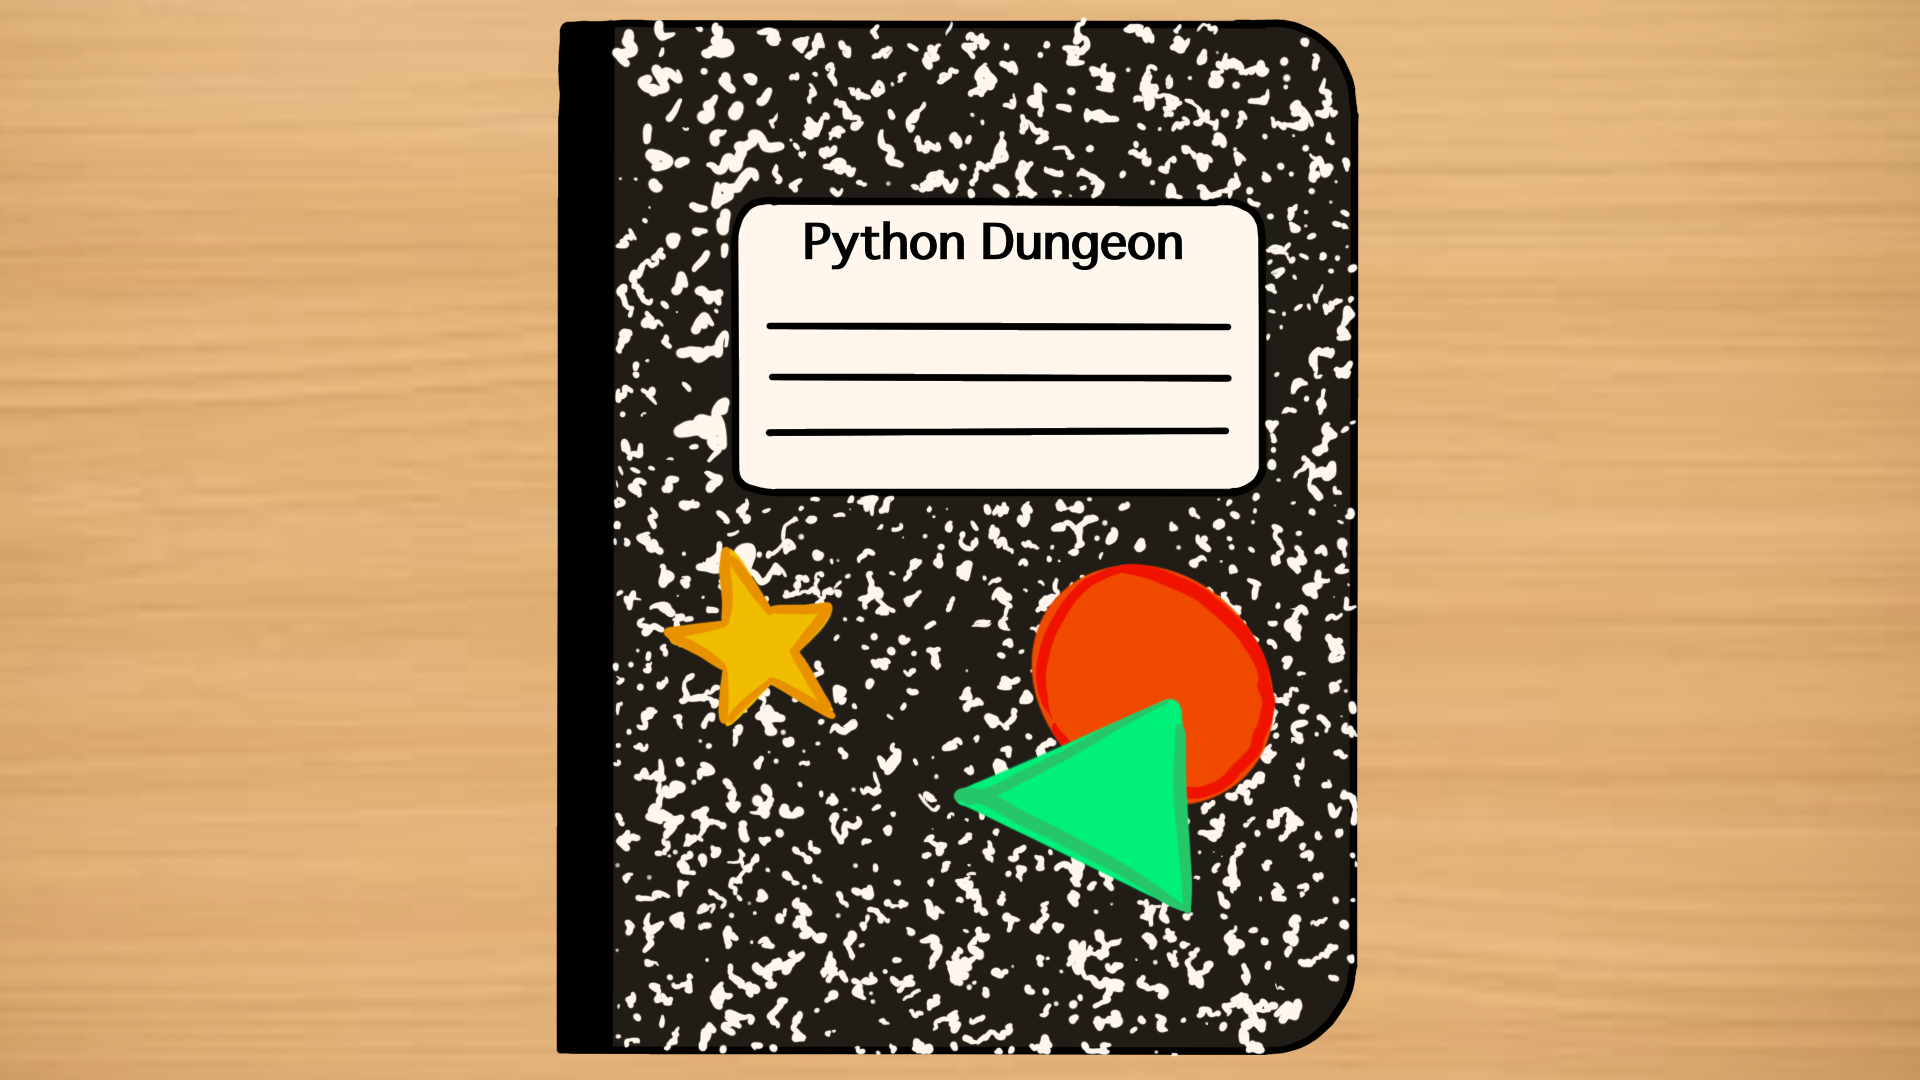
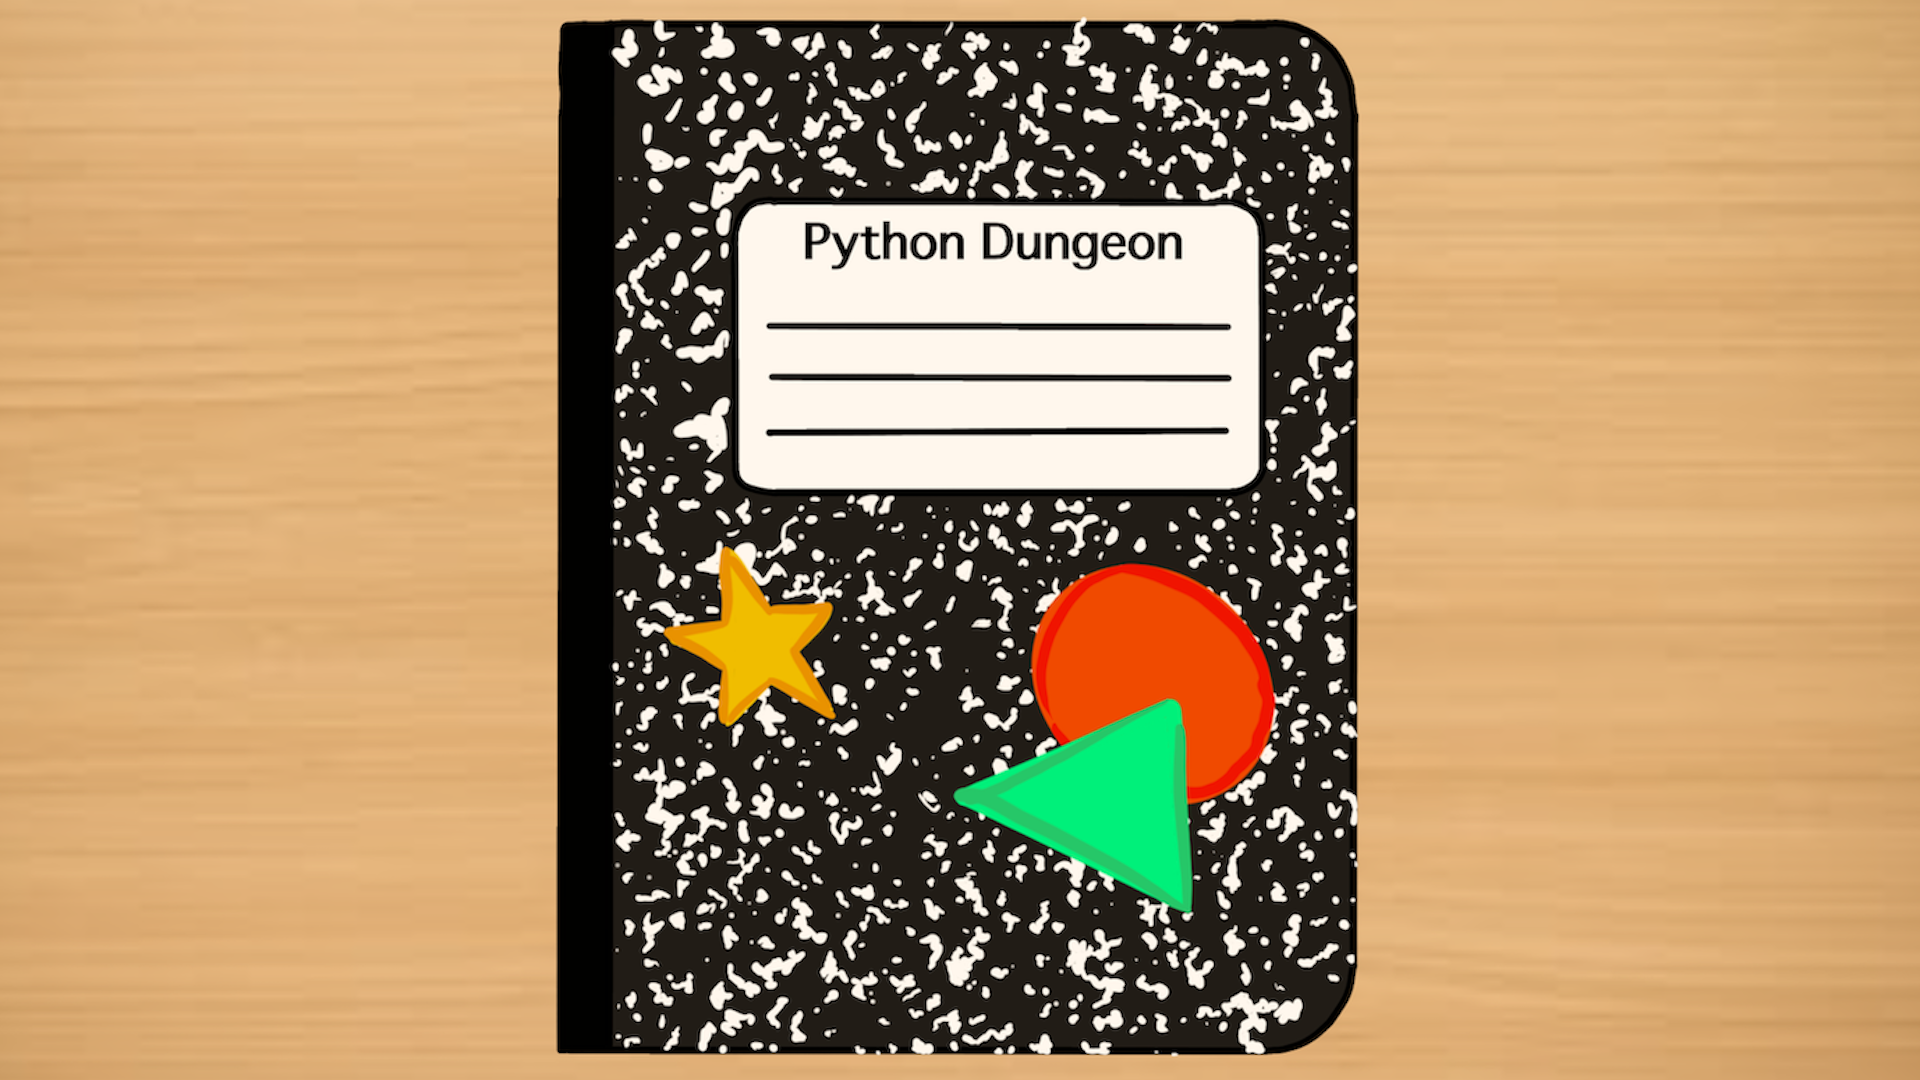
title and more images

diff --git a/GameName/src/VacuousWinners/TitleScreen.java b/GameName/src/VacuousWinners/TitleScreen.java
@@ -2,7 +2,8 @@ package VacuousWinners;
 
 import java.awt.Component;
 import java.awt.Dimension;
-import java.awt.Font;
+import java.awt.Graphics;
+import java.awt.Image;
 import java.awt.event.ActionEvent;
 import java.awt.event.ActionListener;
 import java.io.IOException;
@@ -12,8 +13,7 @@ import javax.swing.BoxLayout;
 import javax.swing.ImageIcon;
 import javax.swing.JButton;
 import javax.swing.JFrame;
-import javax.swing.JLabel;
-
+import javax.swing.JPanel;
 import VacuousWinners.ImageHandler.ImageName;
 
 public class TitleScreen extends Screen {
@@ -26,19 +26,15 @@ public class TitleScreen extends Screen {
     public void draw() throws IOException {
         frame.getContentPane().setLayout(new BoxLayout(frame.getContentPane(), BoxLayout.Y_AXIS));
 
-        frame.add(Box.createRigidArea(new Dimension(0,300)));
-
-        JLabel label = new JLabel("Game\nName");
-        label.setFont(new Font("Sans serif", Font.PLAIN, 80));
-        label.setAlignmentX(Component.CENTER_ALIGNMENT);
-        frame.getContentPane().add(label);
-
-        frame.add(Box.createRigidArea(new Dimension(0,50)));
+        JPanelWithBackground background = new JPanelWithBackground(ImageName.TITLE);
+        frame.add(background);
 
         JButton button = new JButton(new ImageIcon(ImageHandler.getImage(ImageName.START)));
         button.setAlignmentX(Component.CENTER_ALIGNMENT);
         button.setBorder(BorderFactory.createEmptyBorder());
-        frame.add(button);
+
+        background.add(Box.createRigidArea(new Dimension(0,430)));
+        background.add(button);
 
         button.addActionListener(new ActionListener() {
             @Override
@@ -54,4 +50,17 @@ public class TitleScreen extends Screen {
         frame.repaint();
         frame.revalidate();
     }
+
+    public class JPanelWithBackground extends JPanel {
+
+        private Image backgroundImage;
+        public JPanelWithBackground(ImageName name) throws IOException {
+          backgroundImage = ImageHandler.getImage(name);
+        }
+      
+        public void paintComponent(Graphics g) {
+          super.paintComponent(g);
+          g.drawImage(backgroundImage, 0, 0, this);
+        }
+      }
 }

diff --git a/GameName/src/VacuousWinners/ImageHandler.java b/GameName/src/VacuousWinners/ImageHandler.java
@@ -8,14 +8,15 @@ import javax.imageio.ImageIO;
 
 public class ImageHandler {
     public static enum ImageName {
-        TITLE, START, SETTINGS;
+        TITLE, START, SETTINGS, BACKGROUND;
     }
 
     public static BufferedImage getImage(ImageName name) throws IOException {
         switch (name) {
-            case TITLE: return ImageIO.read(new File("GameName/images/title.png"));
+            case TITLE: return ImageIO.read(new File("GameName/images/title.jpg"));
             case START: return ImageIO.read(new File("GameName/images/start.png"));
             case SETTINGS: return ImageIO.read(new File("GameName/images/settings.png"));
+            case BACKGROUND: return ImageIO.read(new File("GameName/images/background.jpg"));
         }
         return null;
     }
